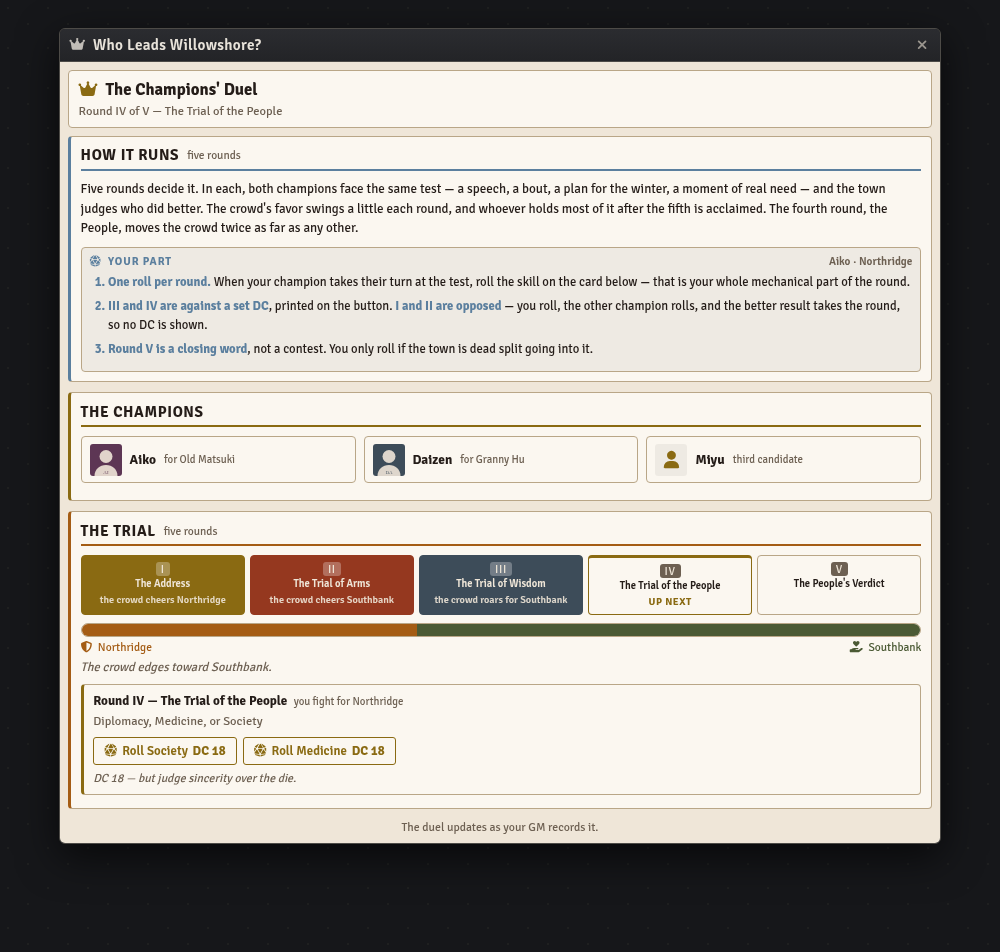
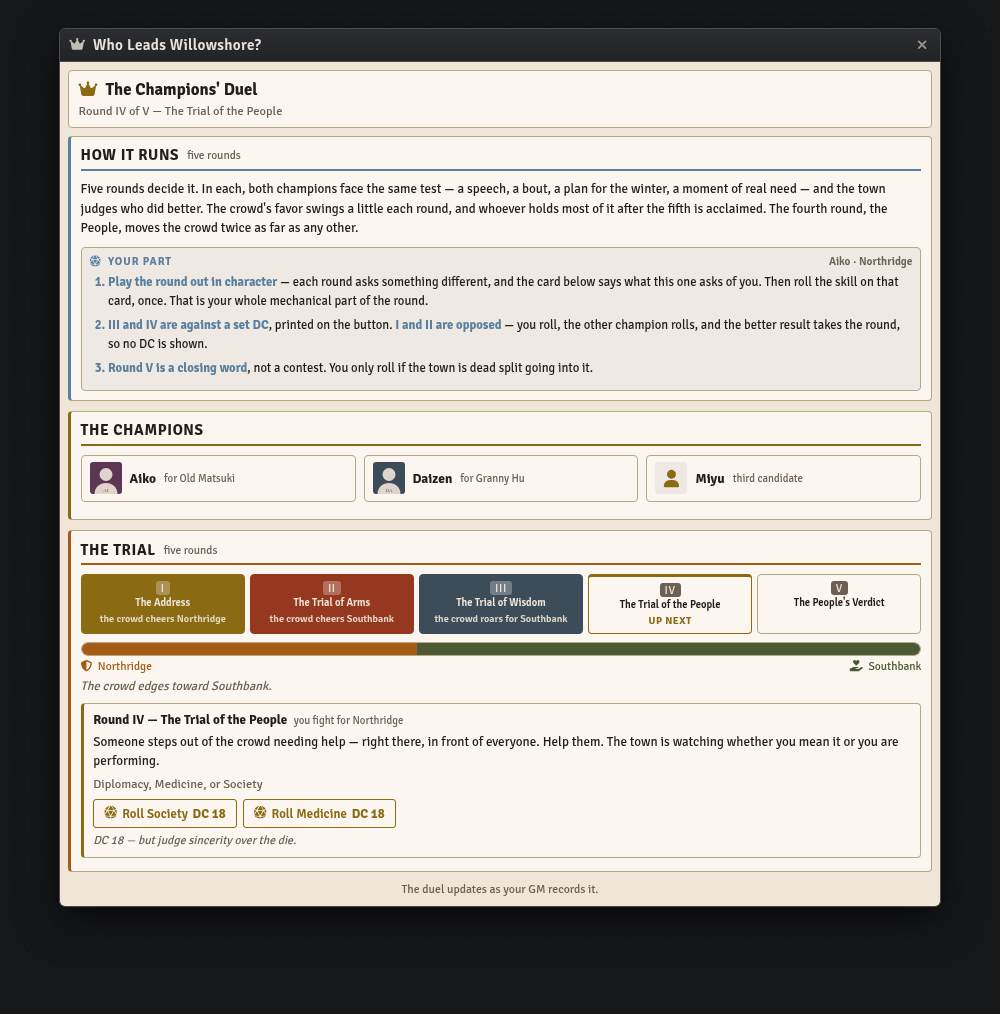
Who Leads Willowshore: say what each round asks of the champion
The player board told champions to "play the round as written" — but
what's written lives in the GM console. The board showed only round
names, so a champion had no way to know what The Trial of Wisdom or The
Trial of the People actually asked of them.

Each round now carries a player line: a plain, second-person description
of what the champion does, written clean of the GM framing in the
console's round text (no "planted moment of need", no "WORTH DOUBLE
FAVOR", no rules citations). The roll card leads with it in both the
honest and the sell variants, and "as written" is gone from all three
"your part" tracks.

Round V's tie-break card also named the Favor track outright; it now
reads "The town is split".

diff --git a/macros/season-of-ghosts/who-leads-willowshore-console.js b/macros/season-of-ghosts/who-leads-willowshore-console.js
@@ -116,7 +116,7 @@ const HOWTO_PLAYER = {
   trial: {
     crowd: "Five rounds decide it. In each, both champions face the same test — a speech, a bout, a plan for the winter, a moment of real need — and the town judges who did better. The crowd's favor swings a little each round, and whoever holds most of it after the fifth is acclaimed. The fourth round, the People, moves the crowd twice as far as any other.",
     seat: [
-      "<b>One roll per round.</b> When your champion takes their turn at the test, roll the skill on the card below — that is your whole mechanical part of the round.",
+      "<b>Play the round out in character</b> — each round asks something different, and the card below says what this one asks of you. Then roll the skill on that card, once. That is your whole mechanical part of the round.",
       "<b>III and IV are against a set DC</b>, printed on the button. <b>I and II are opposed</b> — you roll, the other champion rolls, and the better result takes the round, so no DC is shown.",
       "<b>Round V is a closing word</b>, not a contest. You only roll if the town is dead split going into it."
     ]
@@ -124,13 +124,14 @@ const HOWTO_PLAYER = {
   thrown: {
     crowd: "Five rounds decide it. In each, both champions face the same test — a speech, a bout, a plan for the winter, a moment of real need — and the square makes up its mind, about the champions and about the contest itself. The meter below is the town's read on the bout, not a score.",
     sell: [
-      "<b>Play the round as written</b> — argue, fight, offer your plan. Then roll <b>once</b>, from the card below, to make the loss look real: Deception or Performance against DC 18.",
+      "<b>Play the round out in character.</b> Each round asks something different — a speech, a bout, a plan, a hand held out — and the card below says what this one asks of you. Do it, and lose it convincingly.",
+      "<b>Then roll once</b>, from that card, to make the loss look real: Deception or Performance against DC 18.",
       "<b>That sell is the roll that counts.</b> Rolling the round's own skill to try to win is not your job this duel — in every round, the sell is what you roll.",
       "<b>Beat the DC and the crowd buys it.</b> Miss and people start to talk; miss badly and they talk twice as loud. A critical success — a beautiful, agonizing near-miss — buys back doubt you have already earned.",
       "<b>Round V is the fall itself</b>: one last sell, easier if the crowd has believed you so far, harder if it hasn't."
     ],
     straight: [
-      "<b>You play every round straight</b> — roll the skill on your card as though the outcome were still in doubt. III and IV are against a set DC; I and II are opposed, so no DC is shown.",
+      "<b>You play every round straight</b> — do what the card below says the round asks, then roll the skill on it as though the outcome were still in doubt. III and IV are against a set DC; I and II are opposed, so no DC is shown.",
       "<b>Round V has no roll for you.</b> The finale belongs to the other champion."
     ]
   }
@@ -157,6 +158,7 @@ const ROUNDS = [
     dcText: "No fixed DC — the higher degree (then higher total) takes the round; a Society angle (a real, concrete policy) grants +2.",
     text: "Each champion makes the case for their elder before the whole town. Higher degree of success, then higher total, takes the round.",
     crowd: "Faction banners roar; waverers lean toward the better speaker.",
+    player: "Stand up before the whole town and make the case for your elder — why they should be the one to lead Willowshore through the winter.",
     thrown: "{T} argues {LE}'s case half-heartedly and loses with grace — the first sell. Deception or Performance (DC 18) to make the concession read as a close, principled loss.",
     checks: [], rollSkills: ["Diplomacy", "Performance", "Deception"]
   },
@@ -166,6 +168,7 @@ const ROUNDS = [
     dcText: "Best-of-3 opposed exchanges (attack roll or Athletics); first to two wins. To first yield or disarm.",
     text: "A formal champion's bout to first yield or disarm — non-lethal by the Trial. (Or swap in a formal blood-duel, GM Core pp. 202–203.)",
     crowd: "The loudest round. First blood, if any, flips waverers against the one who drew it.",
+    player: "A formal bout against the other champion, to first yield or disarm. Non-lethal by the Trial — nobody is meant to die here.",
     thrown: "{T} must fight hard and lose. Deception/Performance DC 18 to sell a valiant near-miss; a clumsy dive reads off. If {T} starts genuinely winning, they have to lose even harder to get back on script.",
     // Attack rolls stay on the character sheet (strikes need a weapon picked) —
     // Athletics/Acrobatics are the two skill options the bout actually offers.
@@ -177,6 +180,7 @@ const ROUNDS = [
     dcText: "DC 20 Society, or a fitting Lore — or the GM judges the plan the player actually gives.",
     text: "The town's real problem is posed: \"The harvest will fall short and no trade is coming. How do we eat till spring?\" The best plan wins.",
     crowd: "Merchants and farmers swayed; the practical-minded lean to the better plan.",
+    player: "The town puts its real problem to you: the harvest will fall short and no trade is coming. Say how Willowshore eats till spring.",
     thrown: "{T} offers a solid-but-plain plan and lets {W}'s \"vision\" outshine it — sell the shrug, not the failure.",
     checks: ["DC 20 Society"]
   },
@@ -186,6 +190,7 @@ const ROUNDS = [
     dcText: "DC 18 — but judge sincerity over the die.",
     text: "A planted moment of need steps from the crowd — a sick child, a feud between neighbors, a grieving widow. The champion must help, not perform. WORTH DOUBLE FAVOR.",
     crowd: "A cold or cynical handling can lose a champion the whole town, even from ahead.",
+    player: "Someone steps out of the crowd needing help — right there, in front of everyone. Help them. The town is watching whether you mean it or you are performing.",
     thrown: "The easiest round to sell — {T} helps warmly, then defers the credit. But overdoing humility reads as defeatism (+Suspicion).",
     checks: ["DC 18 Society", "DC 18 Medicine"],
     double: true
@@ -196,6 +201,7 @@ const ROUNDS = [
     dcText: "Most Favor after Round V wins. A tie is broken by a final opposed Diplomacy before the crowd.",
     text: "Each champion gets one last appeal; then tally all Favor — most Favor acclaims that elder interim governor. The grace note: a unifying gesture (victor honoring loser, loser pledging support) can heal the rift.",
     crowd: "The whole square holds its breath for the tally.",
+    player: "One last word to the town, and then it makes up its mind.",
     thrown: "THE MONEY SHOT. {W} lands the \"deciding\" blow; {T} sells the dramatic, valiant fall — one last Deception/Performance, bonus if Suspicion is low, penalty if high. {LE} steps forward, clasps {WE}'s hand, and concedes to cheers.",
     checks: []
   }
@@ -683,7 +689,8 @@ class WLRApp extends BaseApp {
         return `
         <div class="rollcard">
           <div class="rc-head">Round ${next.num} — ${esc(next.name)} <small>you fight for ${faction}</small></div>
-          <p class="rc-skills">Play the round as written, then roll <b>once</b> to sell the loss — Deception or Performance.</p>
+          <p class="rc-what">${esc(next.player)}</p>
+          <p class="rc-skills">Play that out in character and lose it convincingly — then roll <b>once</b> to sell the loss: Deception or Performance.</p>
           <div class="rc-btns">
             <button type="button" class="rollbtn" data-act="roll" data-k="${next.key}" data-skill="Deception" data-dc="18">
               <i class="fa-solid fa-dice-d20"></i> Roll Deception <b>DC 18</b></button>
@@ -705,7 +712,8 @@ class WLRApp extends BaseApp {
       return `
       <div class="rollcard">
         <div class="rc-head">Round ${next.num} — ${esc(next.name)} <small>you fight for ${faction}</small></div>
-        <p class="rc-skills">${esc(tieBreak ? "Favor is tied — one final opposed Diplomacy breaks it" : next.skills)}</p>
+        <p class="rc-what">${esc(next.player)}</p>
+        <p class="rc-skills">${esc(tieBreak ? "The town is split — one final opposed Diplomacy breaks it" : next.skills)}</p>
         <div class="rc-btns">${options.map(c =>
           `<button type="button" class="rollbtn" data-act="roll" data-k="${next.key}" data-skill="${esc(c.skill)}" ${c.dc != null ? `data-dc="${c.dc}"` : ""}>
              <i class="fa-solid fa-dice-d20"></i> Roll ${esc(c.skill)}${c.dc != null ? ` <b>DC ${c.dc}</b>` : ""}</button>`).join("")}
@@ -1201,6 +1209,7 @@ class WLRApp extends BaseApp {
                         background:var(--card); padding:.5rem .6rem; margin:.5rem 0 .2rem; }
       .wlw .rc-head { font-size:.82rem; font-weight:700; display:flex; align-items:baseline; gap:.4rem; flex-wrap:wrap; }
       .wlw .rc-head small { font-size:.68rem; font-weight:400; color:var(--muted); }
+      .wlw .rc-what { font-size:.82rem; line-height:1.45; margin:.3rem 0 .3rem; }
       .wlw .rc-skills { font-size:.78rem; line-height:1.4; color:var(--muted); margin:.25rem 0 .4rem; }
       .wlw .rc-btns { display:flex; gap:.35rem; flex-wrap:wrap; }
       .wlw .rollbtn { padding:.32rem .65rem; font-size:.8rem; font-weight:600; border-color:var(--gold); color:var(--gold); background:transparent; }

diff --git a/CHANGELOG.md b/CHANGELOG.md
@@ -1,5 +1,23 @@
 # Changelog
 
+## 2026-08-18 17:26
+
+### Fixed
+- **Who Leads Willowshore? — the player board told champions to play the round "as written"
+  without ever saying what was written.** The new "your part" steps and the thrown duel's sell
+  card both leaned on that phrase, but the round's script lives in the GM console; the player
+  board showed only round *names* in the stepper, so a champion had no way to know what The
+  Trial of Wisdom or The Trial of the People actually asked of them. Each round now carries a
+  `player` line — a plain, second-person description of what the champion does ("The town puts
+  its real problem to you: the harvest will fall short and no trade is coming. Say how
+  Willowshore eats till spring") — and the roll card leads with it, in both the honest and the
+  sell variants. The "as written" wording is gone from all three "your part" tracks in favour of
+  pointing at that card. The player lines are written clean of the GM framing in the console's
+  own round text: no "planted moment of need", no "WORTH DOUBLE FAVOR", no rules citations.
+- **Who Leads Willowshore? — "Favor is tied" on the player board.** Round V's tie-break card
+  named the mechanical Favor track, which the board otherwise keeps behind the crowd meter. It
+  now reads "The town is split".
+
 ## 2026-08-18 17:04
 
 ### Changed
